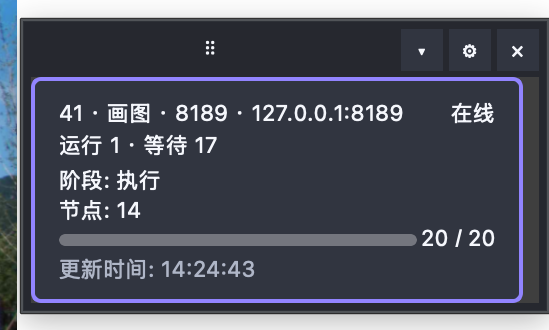
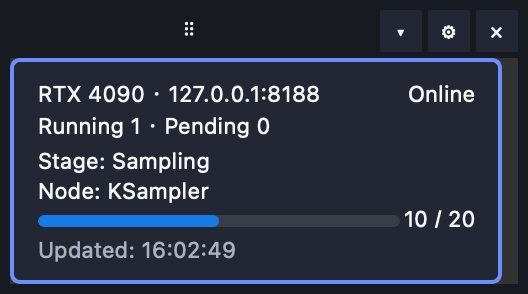
docs: replace dock screenshot with English version

diff --git a/README.md b/README.md
@@ -5,7 +5,7 @@ A lightweight, server-side [ComfyUI](https://github.com/comfyanonymous/ComfyUI) 
 It is designed for desktop companions, status docks, dashboards, and other observers that need the real active node and sampler progress without hijacking the WebSocket used by the client that submitted the prompt.
 
 <p align="center">
-  <img src="docs/images/comfyui-progress-dock.png" width="549" alt="ComfyUI Progress Bridge desktop dock showing queue, active node, and sampler progress">
+  <img src="docs/images/comfyui-progress-dock.png" width="528" alt="ComfyUI Progress Bridge desktop dock showing queue, active node, and sampler progress">
 </p>
 <p align="center"><sub>Transparent desktop dock with live queue, node, and sampler progress.</sub></p>
 
